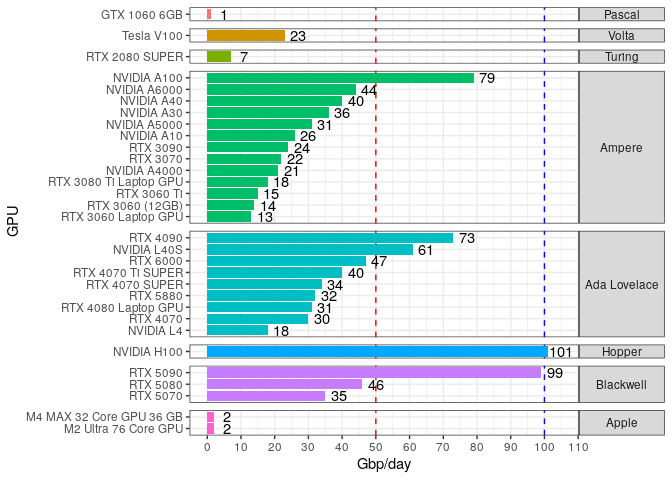
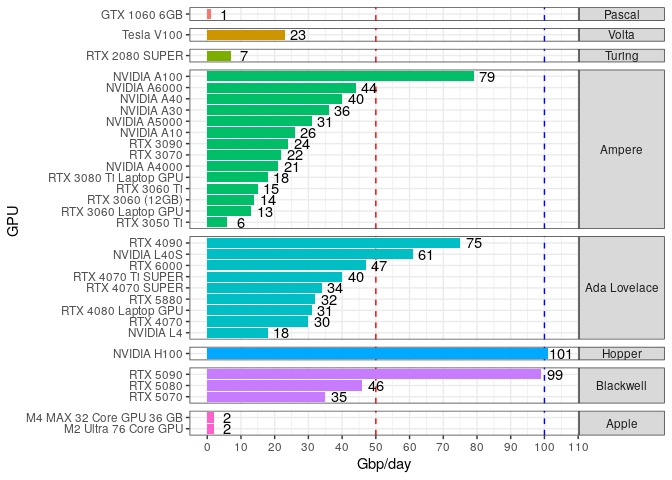
added 3050 Ti

Changed region(s): [[0.0312, 0.0312, 1.0, 0.9062], [0.875, 0.5625, 0.9688, 0.625], [0.9062, 0.2812, 0.9688, 0.3438]]

diff --git a/README.md b/README.md
@@ -1,7 +1,7 @@
 README
 ================
 Rasmus Kirkegaard
-22 April, 2025
+05 May, 2025
 
 ## Aim
 
